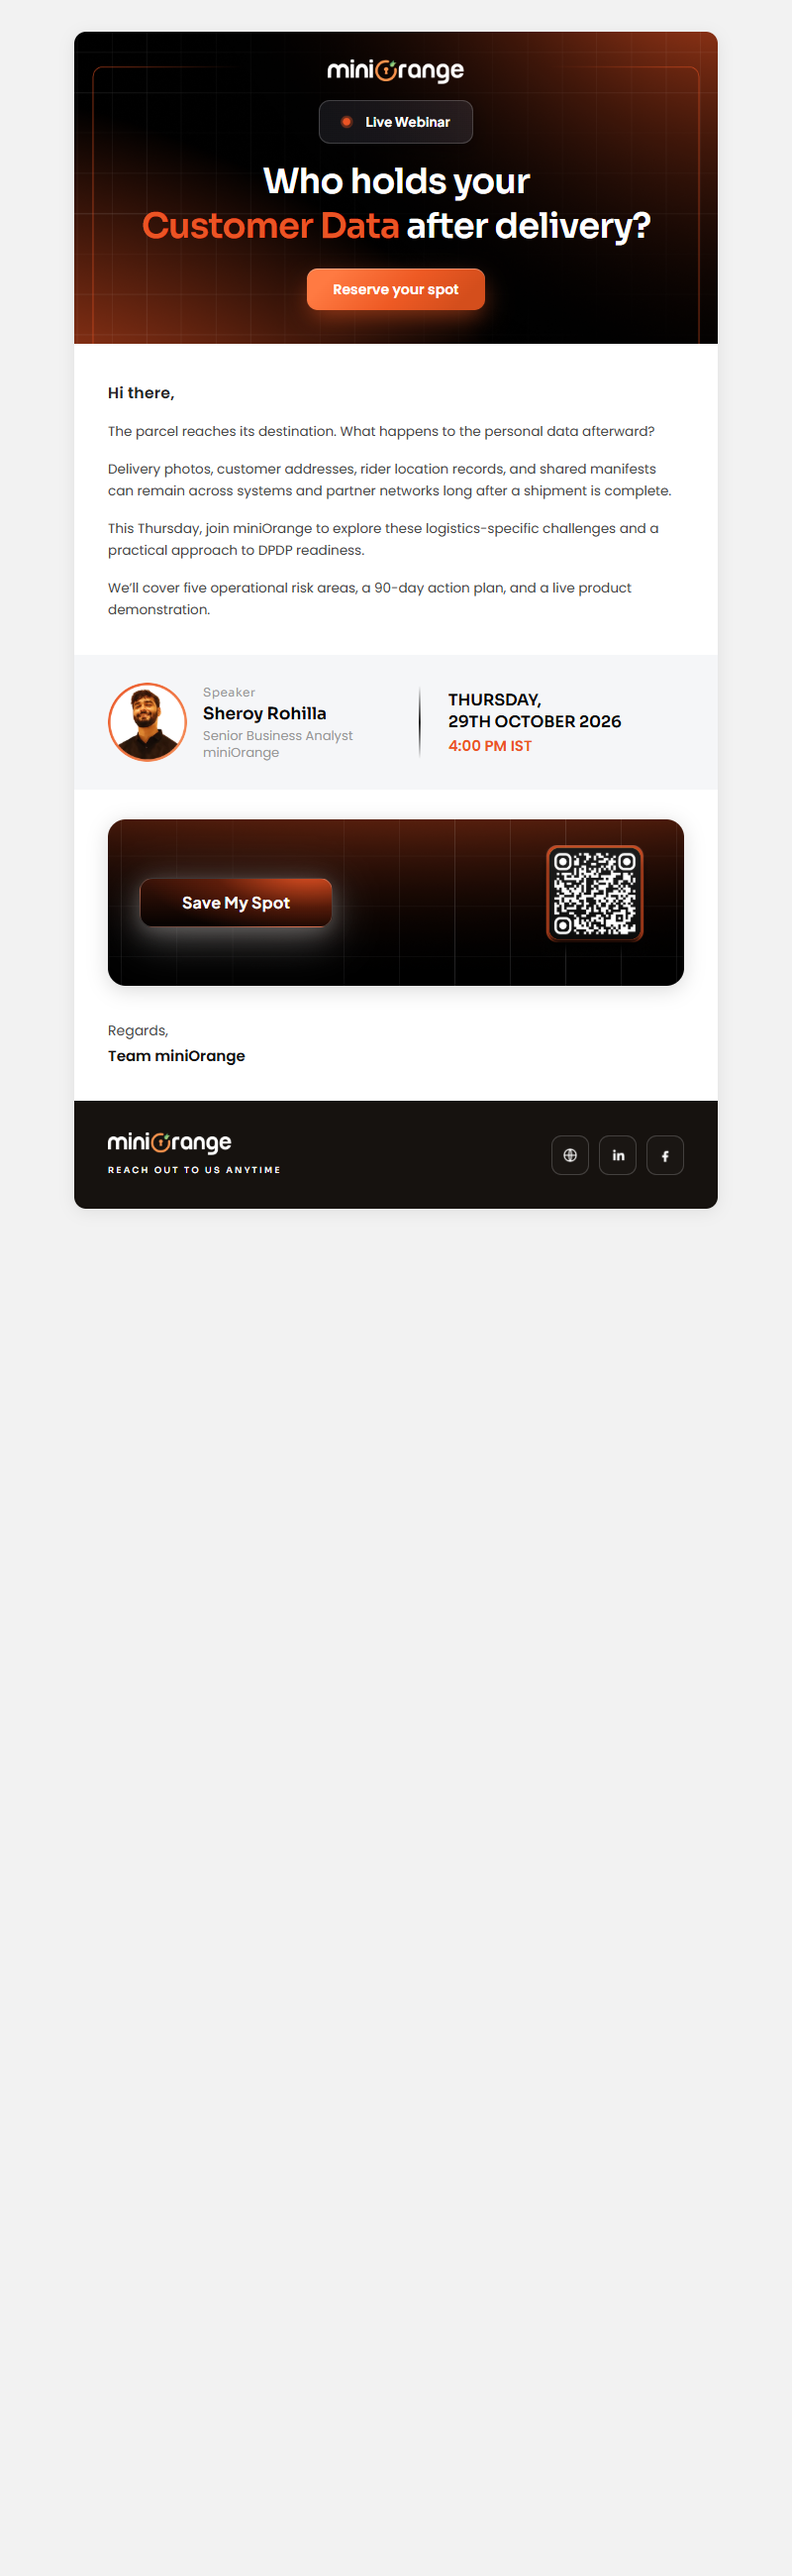
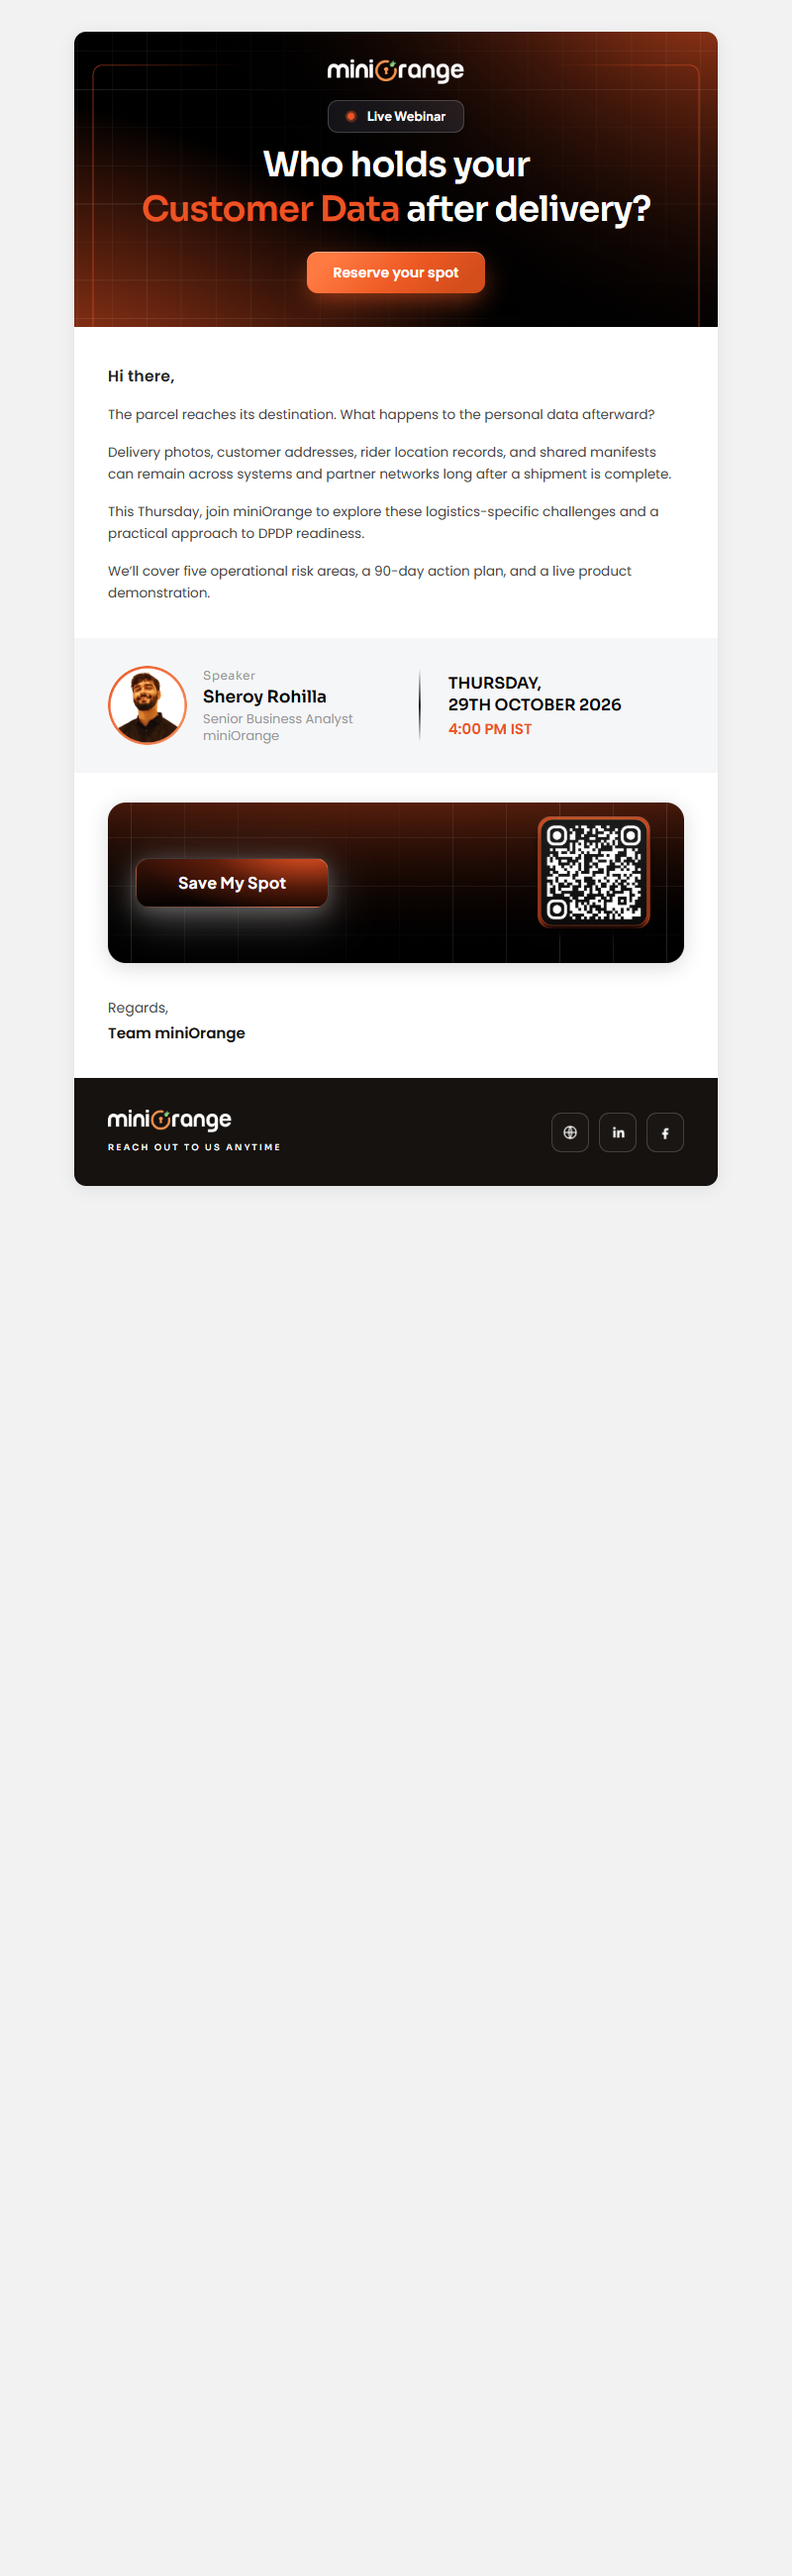
all done for this newsletter

Changed region(s): [[0.0938, 0.0312, 0.9062, 0.4673]]

diff --git a/newsletter27oct2026/index.html b/newsletter27oct2026/index.html
@@ -63,9 +63,7 @@
             color: inherit;
         }
 
-        .mobile-break {
-            display: none;
-        }
+
 
         /* Tablet & Intermediate Responsiveness (Under 680px) */
         @media only screen and (max-width: 680px) {
@@ -137,7 +135,7 @@
             }
 
             .qr-card-table {
-                padding: 22px 16px !important;
+                padding: 20px 16px !important;
             }
 
             .qr-card-row {
@@ -171,8 +169,8 @@
 
             .qr-img {
                 margin: 0 auto !important;
-                width: 105px !important;
-                height: 105px !important;
+                width: 130px !important;
+                height: 130px !important;
             }
 
             .footer-td {
@@ -206,10 +204,11 @@
             }
         }
 
-        /* Mobile specific adjustments (Under 480px) */
-        @media only screen and (max-width: 480px) {
-            .mobile-break {
-                display: inline !important;
+        /* Mobile specific adjustments (Under 540px) */
+        @media only screen and (max-width: 540px) {
+            .mobile-block {
+                display: block !important;
+                margin-top: 2px !important;
             }
 
             .hero-padding {
@@ -304,7 +303,8 @@
     <!-- PREHEADER TEXT -->
     <span
         style="display: none !important; visibility: hidden; mso-hide: all; font-size: 1px; color: #0B0B0E; line-height: 1px; max-height: 0px; max-width: 0px; opacity: 0; overflow: hidden;">
-        Who holds your Customer Data after delivery? Join miniOrange this Thursday, 29th October 2026 at 4:00 PM IST for DPDP readiness in logistics.
+        Who holds your Customer Data after delivery? Join miniOrange this Thursday, 29th October 2026 at 4:00 PM IST for
+        DPDP readiness in logistics.
         &zwnj;&nbsp;&zwnj;&nbsp;&zwnj;&nbsp;&zwnj;&nbsp;&zwnj;&nbsp;&zwnj;&nbsp;&zwnj;&nbsp;&zwnj;&nbsp;&zwnj;&nbsp;&zwnj;&nbsp;&zwnj;&nbsp;&zwnj;&nbsp;&zwnj;&nbsp;&zwnj;&nbsp;&zwnj;&nbsp;&zwnj;&nbsp;
     </span>
     <!-- END PREHEADER TEXT -->
@@ -349,18 +349,20 @@
 
                                 <!-- ROW 2: LIVE WEBINAR BADGE (CENTERED, SQUIRCLE BORDER-RADIUS) -->
                                 <tr>
-                                    <td align="center" valign="top" style="padding-bottom: 16px;">
+                                    <td align="center" valign="top" style="padding-bottom: 10px;">
                                         <table role="presentation" border="0" cellpadding="0" cellspacing="0"
-                                            style="background: linear-gradient(0deg, rgba(164, 164, 164, 0.09), rgba(164, 164, 164, 0.09)), linear-gradient(110.91deg, rgba(16, 15, 34, 0.25) 1.59%, rgba(41, 40, 56, 0.25) 107.19%); border: 1px solid rgba(255, 255, 255, 0.18); border-radius: 11px; -webkit-border-radius: 11px; -moz-border-radius: 11px; display: inline-table; box-shadow: 0 6px 16px 2px rgba(0, 0, 0, 0.25); border-collapse: separate; margin: 0 auto;">
+                                            style="background: linear-gradient(0deg, rgba(164, 164, 164, 0.09), rgba(164, 164, 164, 0.09)), linear-gradient(110.91deg, rgba(16, 15, 34, 0.25) 1.59%, rgba(41, 40, 56, 0.25) 107.19%); border: 1px solid rgba(255, 255, 255, 0.18); border-radius: 10px; -webkit-border-radius: 10px; -moz-border-radius: 10px; display: inline-table; box-shadow: 0 4px 12px 1px rgba(0, 0, 0, 0.22); border-collapse: separate; margin: 0 auto;">
                                             <tr>
-                                                <td valign="middle" style="padding: 13px 6px 13px 20px; line-height: 1;">
-                                                    <img src="https://files.catbox.moe/9lh1xk.png" alt="Live" width="14"
-                                                        height="14"
-                                                        style="width: 14px; max-width: 14px; height: 14px; border: 0; display: block;" />
+                                                <td valign="middle"
+                                                    style="padding: 8px 5px 8px 16px; line-height: 1;">
+                                                    <img src="https://files.catbox.moe/9lh1xk.png" alt="Live" width="13"
+                                                        height="13"
+                                                        style="width: 13px; max-width: 13px; height: 13px; border: 0; display: block;" />
                                                 </td>
-                                                <td valign="middle" style="padding: 13px 22px 13px 6px; line-height: 1;">
+                                                <td valign="middle"
+                                                    style="padding: 8px 18px 8px 5px; line-height: 1;">
                                                     <span
-                                                        style="font-family: 'Plus Jakarta Sans', 'Poppins', Arial, sans-serif; font-size: 13.5px; line-height: 1.2; font-weight: 700; color: #FFFFFF; letter-spacing: 0.01em; white-space: nowrap;">
+                                                        style="font-family: 'Plus Jakarta Sans', 'Poppins', Arial, sans-serif; font-size: 12.5px; line-height: 1.2; font-weight: 700; color: #FFFFFF; letter-spacing: 0.01em; white-space: nowrap;">
                                                         Live Webinar
                                                     </span>
                                                 </td>
@@ -374,7 +376,8 @@
                                     <td align="center" style="padding-bottom: 20px;">
                                         <h1 class="mobile-h1"
                                             style="margin: 0; font-family: 'Sora', Arial, Helvetica, sans-serif; font-size: 35px; line-height: 45px; font-weight: 600; color: #FFFFFF; letter-spacing: -0.02em; text-align: center; word-wrap: break-word; overflow-wrap: break-word;">
-                                            Who holds your<br /><span style="color: #EB5424;">Customer Data</span> after delivery?
+                                            Who holds your<br /><span style="color: #EB5424;">Customer Data</span> <span
+                                                class="mobile-block">after delivery?</span>
                                         </h1>
                                     </td>
                                 </tr>
@@ -382,11 +385,12 @@
                                 <!-- ROW 4: HERO CTA BUTTON (CENTERED, SQUIRCLE BORDER-RADIUS) -->
                                 <tr>
                                     <td align="center">
-                                        <table role="presentation" border="0" cellpadding="0" cellspacing="0" align="center" style="margin: 0 auto;">
+                                        <table role="presentation" border="0" cellpadding="0" cellspacing="0"
+                                            align="center" style="margin: 0 auto;">
                                             <tr>
                                                 <td align="center"
                                                     style="background: linear-gradient(135deg, #FF7A42 14.29%, #EE5A24 53.57%, #D44E1C 85.71%); border-radius: 11px; -webkit-border-radius: 11px; -moz-border-radius: 11px; box-shadow: 0px 10px 25px -4px rgba(238, 90, 36, 0.6), inset 0px 1px 0px rgba(255, 255, 255, 0.35);">
-                                                    <a href="https://live.zoho.in/nzcz-ezu-zft" target="_blank"
+                                                    <a href=" https://live.zoho.in/nzcz-ezu-zft" target="_blank"
                                                         class="hero-btn"
                                                         style="font-family: 'Poppins', Arial, sans-serif; font-size: 14px; line-height: 20px; font-weight: 600; color: #FFFFFF; text-decoration: none; padding: 11px 26px; border-radius: 11px; display: inline-block; white-space: nowrap;">
                                                         Reserve your spot
@@ -431,7 +435,8 @@
                                     <td style="padding-bottom: 16px;">
                                         <p
                                             style="margin: 0; font-family: 'Poppins', Arial, sans-serif; font-size: 13.5px; line-height: 22px; color: #444444; font-weight: 400;">
-                                            The parcel reaches its destination. What happens to the personal data afterward?
+                                            The parcel reaches its destination. What happens to the personal data
+                                            afterward?
                                         </p>
                                     </td>
                                 </tr>
@@ -441,7 +446,9 @@
                                     <td style="padding-bottom: 16px;">
                                         <p
                                             style="margin: 0; font-family: 'Poppins', Arial, sans-serif; font-size: 13.5px; line-height: 22px; color: #444444; font-weight: 400;">
-                                            Delivery photos, customer addresses, rider location records, and shared manifests can remain across systems and partner networks long after a shipment is complete.
+                                            Delivery photos, customer addresses, rider location records, and shared
+                                            manifests can remain across systems and partner networks long after a
+                                            shipment is complete.
                                         </p>
                                     </td>
                                 </tr>
@@ -451,7 +458,8 @@
                                     <td style="padding-bottom: 16px;">
                                         <p
                                             style="margin: 0; font-family: 'Poppins', Arial, sans-serif; font-size: 13.5px; line-height: 22px; color: #444444; font-weight: 400;">
-                                            This Thursday, join miniOrange to explore these logistics-specific challenges and a practical approach to DPDP readiness.
+                                            This Thursday, join miniOrange to explore these logistics-specific
+                                            challenges and a practical approach to DPDP readiness.
                                         </p>
                                     </td>
                                 </tr>
@@ -461,7 +469,8 @@
                                     <td style="padding-bottom: 6px;">
                                         <p
                                             style="margin: 0; font-family: 'Poppins', Arial, sans-serif; font-size: 13.5px; line-height: 22px; color: #444444; font-weight: 400;">
-                                            We’ll cover five operational risk areas, a 90-day action plan, and a live product demonstration.
+                                            We’ll cover five operational risk areas, a 90-day action plan, and a live
+                                            product demonstration.
                                         </p>
                                     </td>
                                 </tr>
@@ -481,13 +490,14 @@
                                 <tr class="speaker-row">
 
                                     <!-- SPEAKER DETAILS (LEFT) -->
-                                    <td valign="middle" align="left" class="speaker-col-left" style="width: 53%; padding-right: 20px;">
+                                    <td valign="middle" align="left" class="speaker-col-left"
+                                        style="width: 53%; padding-right: 20px;">
                                         <table role="presentation" border="0" cellpadding="0" cellspacing="0">
                                             <tr>
-                                                <td valign="middle" class="speaker-avatar-td" style="width: 80px; padding-right: 16px;">
-                                                    <img src="https://files.catbox.moe/zxk05v.png"
-                                                        alt="Sheroy Rohilla" width="80" height="80"
-                                                        class="speaker-avatar-img"
+                                                <td valign="middle" class="speaker-avatar-td"
+                                                    style="width: 80px; padding-right: 16px;">
+                                                    <img src="https://files.catbox.moe/zxk05v.png" alt="Sheroy Rohilla"
+                                                        width="80" height="80" class="speaker-avatar-img"
                                                         style="width: 80px; max-width: 80px; height: 80px; border-radius: 50%; -webkit-border-radius: 50%; -moz-border-radius: 50%; display: block;" />
                                                 </td>
                                                 <td valign="middle">
@@ -513,13 +523,15 @@
                                     </td>
 
                                     <!-- VERTICAL DIVIDER (Line 1517.png) -->
-                                    <td valign="middle" align="center" class="speaker-col-divider" style="width: 2px; padding: 0 8px;">
+                                    <td valign="middle" align="center" class="speaker-col-divider"
+                                        style="width: 2px; padding: 0 8px;">
                                         <img src="https://files.catbox.moe/m1rp86.png" alt="" width="2" height="74"
                                             style="width: 2px; max-width: 2px; height: 74px; border: 0; display: block; margin: 0 auto;" />
                                     </td>
 
                                     <!-- DATE & TIME DETAILS (RIGHT) -->
-                                    <td valign="middle" align="left" class="speaker-col-right" style="width: 45%; padding-left: 20px;">
+                                    <td valign="middle" align="left" class="speaker-col-right"
+                                        style="width: 45%; padding-left: 20px;">
                                         <div class="date-title"
                                             style="font-family: 'Sora', Arial, sans-serif; font-size: 16px; font-weight: 600; color: #000000; line-height: 22px; text-transform: uppercase;">
                                             THURSDAY,
@@ -544,17 +556,19 @@
                     <!-- 4. SAVE MY SPOT + QR CODE CARD SECTION         -->
                     <!-- ============================================== -->
                     <tr>
-                        <td align="center" class="mobile-padding" style="padding: 30px 34px 24px 34px; background-color: #FFFFFF;">
+                        <td align="center" class="mobile-padding"
+                            style="padding: 30px 34px 24px 34px; background-color: #FFFFFF;">
 
                             <!-- CARD WITH CLOSE.PNG BACKGROUND -->
                             <table role="presentation" border="0" cellpadding="0" cellspacing="0" width="100%"
                                 class="qr-card-table"
-                                style="background-color: #0A0A0C; background-image: url('https://files.catbox.moe/z4ezz7.png'); background-position: center center; background-repeat: no-repeat; background-size: cover; border-radius: 18px; -webkit-border-radius: 18px; -moz-border-radius: 18px; border-collapse: separate; padding: 26px 32px; box-shadow: 0 4px 20px rgba(0,0,0,0.15);">
+                                style="background-color: #0A0A0C; background-image: url('https://files.catbox.moe/z4ezz7.png'); background-position: center center; background-repeat: no-repeat; background-size: cover; border-radius: 18px; -webkit-border-radius: 18px; -moz-border-radius: 18px; border-collapse: separate; padding: 15px 32px 15px 32px; box-shadow: 0 4px 20px rgba(0,0,0,0.15);">
                                 <tr class="qr-card-row">
 
                                     <!-- LEFT: CTA BUTTON (FULL PILL CAPSULE SHAPE MATCHING IMAGE 3) -->
                                     <td valign="middle" align="left" class="qr-col-btn" style="padding-right: 16px;">
-                                        <table role="presentation" border="0" cellpadding="0" cellspacing="0" class="qr-btn-wrapper" style="border-collapse: separate; margin: 0;">
+                                        <table role="presentation" border="0" cellpadding="0" cellspacing="0"
+                                            class="qr-btn-wrapper" style="border-collapse: separate; margin: 0;">
                                             <tr>
                                                 <td align="center" valign="middle">
                                                     <!--[if mso]>
@@ -577,11 +591,12 @@
                                     </td>
 
                                     <!-- RIGHT: QR CODE -->
-                                    <td valign="middle" align="right" class="qr-col-code" style="width: 120px;">
-                                        <a href="https://live.zoho.in/nzcz-ezu-zft" target="_blank" class="qr-link" style="text-decoration: none; display: inline-block;">
-                                            <img src="https://files.catbox.moe/2jgu95.png" alt="Scan QR to Register" width="116" height="116"
-                                                class="qr-img"
-                                                style="width: 116px; max-width: 116px; height: 116px; display: block; border: 0;" />
+                                    <td valign="middle" align="right" class="qr-col-code" style="width: 136px;">
+                                        <a href="https://live.zoho.in/nzcz-ezu-zft" target="_blank" class="qr-link"
+                                            style="text-decoration: none; display: inline-block;">
+                                            <img src="https://files.catbox.moe/my343k.png" alt="Scan QR to Register"
+                                                width="134" height="134" class="qr-img"
+                                                style="width: 134px; max-width: 134px; height: 134px; display: block; border: 0;" />
                                         </a>
                                     </td>
 
@@ -596,7 +611,8 @@
                     <!-- 5. SIGN-OFF SECTION                            -->
                     <!-- ============================================== -->
                     <tr>
-                        <td align="left" class="mobile-padding" style="padding: 10px 34px 34px 34px; background-color: #FFFFFF;">
+                        <td align="left" class="mobile-padding"
+                            style="padding: 10px 34px 34px 34px; background-color: #FFFFFF;">
                             <table role="presentation" border="0" cellpadding="0" cellspacing="0" width="100%">
                                 <tr>
                                     <td>

diff --git a/newsletter27oct2026/test_mq.py b/newsletter27oct2026/test_mq.py
@@ -1,0 +1,21 @@
+import subprocess, os, tempfile, shutil
+from PIL import Image
+
+edge = r'C:\Program Files (x86)\Microsoft\Edge\Application\msedge.exe'
+temp_dir = tempfile.mkdtemp()
+temp_html = os.path.join(temp_dir, 'test.html')
+temp_ss = os.path.join(temp_dir, 'ss.png')
+
+with open(temp_html, 'w') as f:
+    f.write('''<!DOCTYPE html><html><head>
+<meta name="viewport" content="width=device-width, initial-scale=1.0">
+</head><body><div id="box"></div><script>document.getElementById("box").innerText = window.innerWidth;</script></body></html>''')
+
+cmd = [edge, '--headless=new', f'--user-data-dir={temp_dir}', '--window-size=375,600', f'--screenshot={temp_ss}', f'file:///{temp_html}']
+subprocess.run(cmd, capture_output=True)
+
+if os.path.exists(temp_ss):
+    shutil.copy(temp_ss, 'ss_test_mq.png')
+    print('Copied to ss_test_mq.png')
+
+shutil.rmtree(temp_dir, ignore_errors=True)
